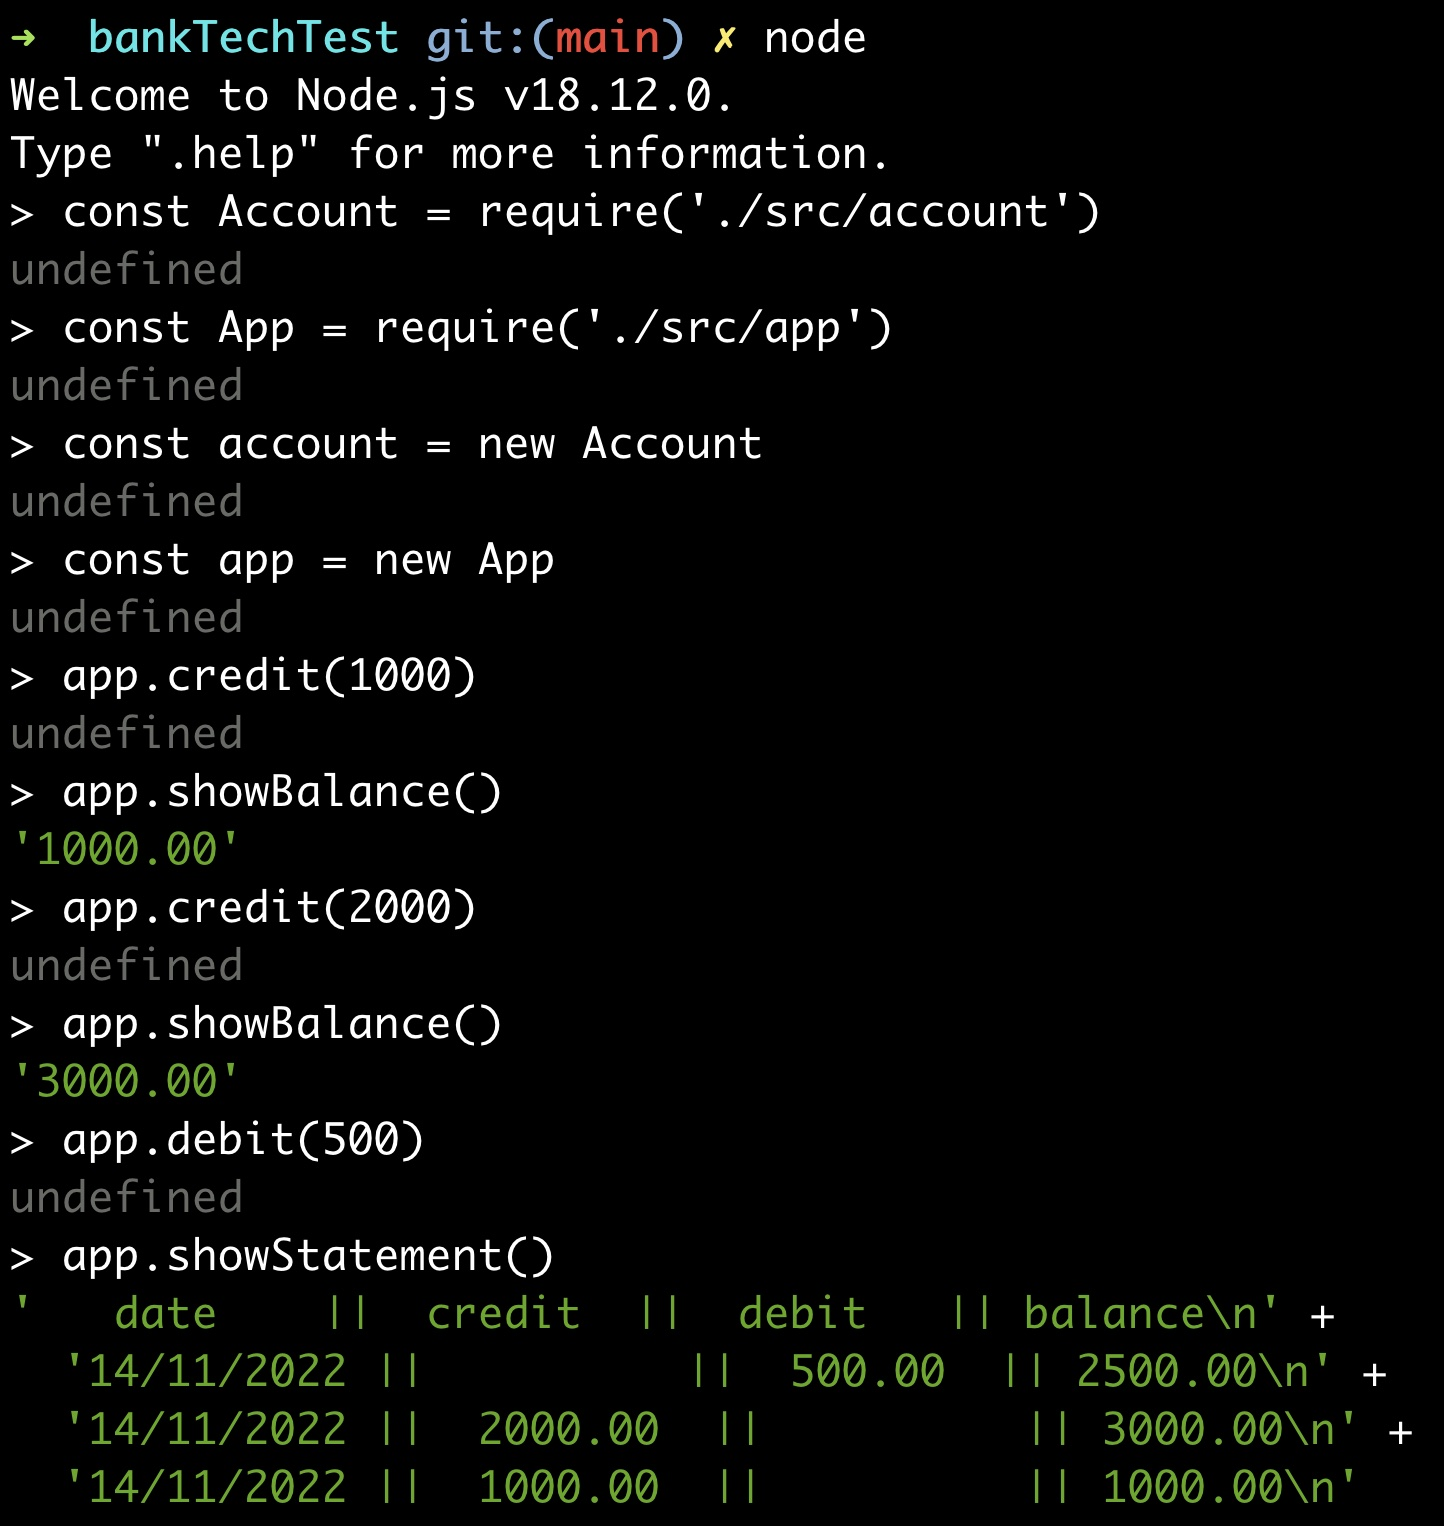
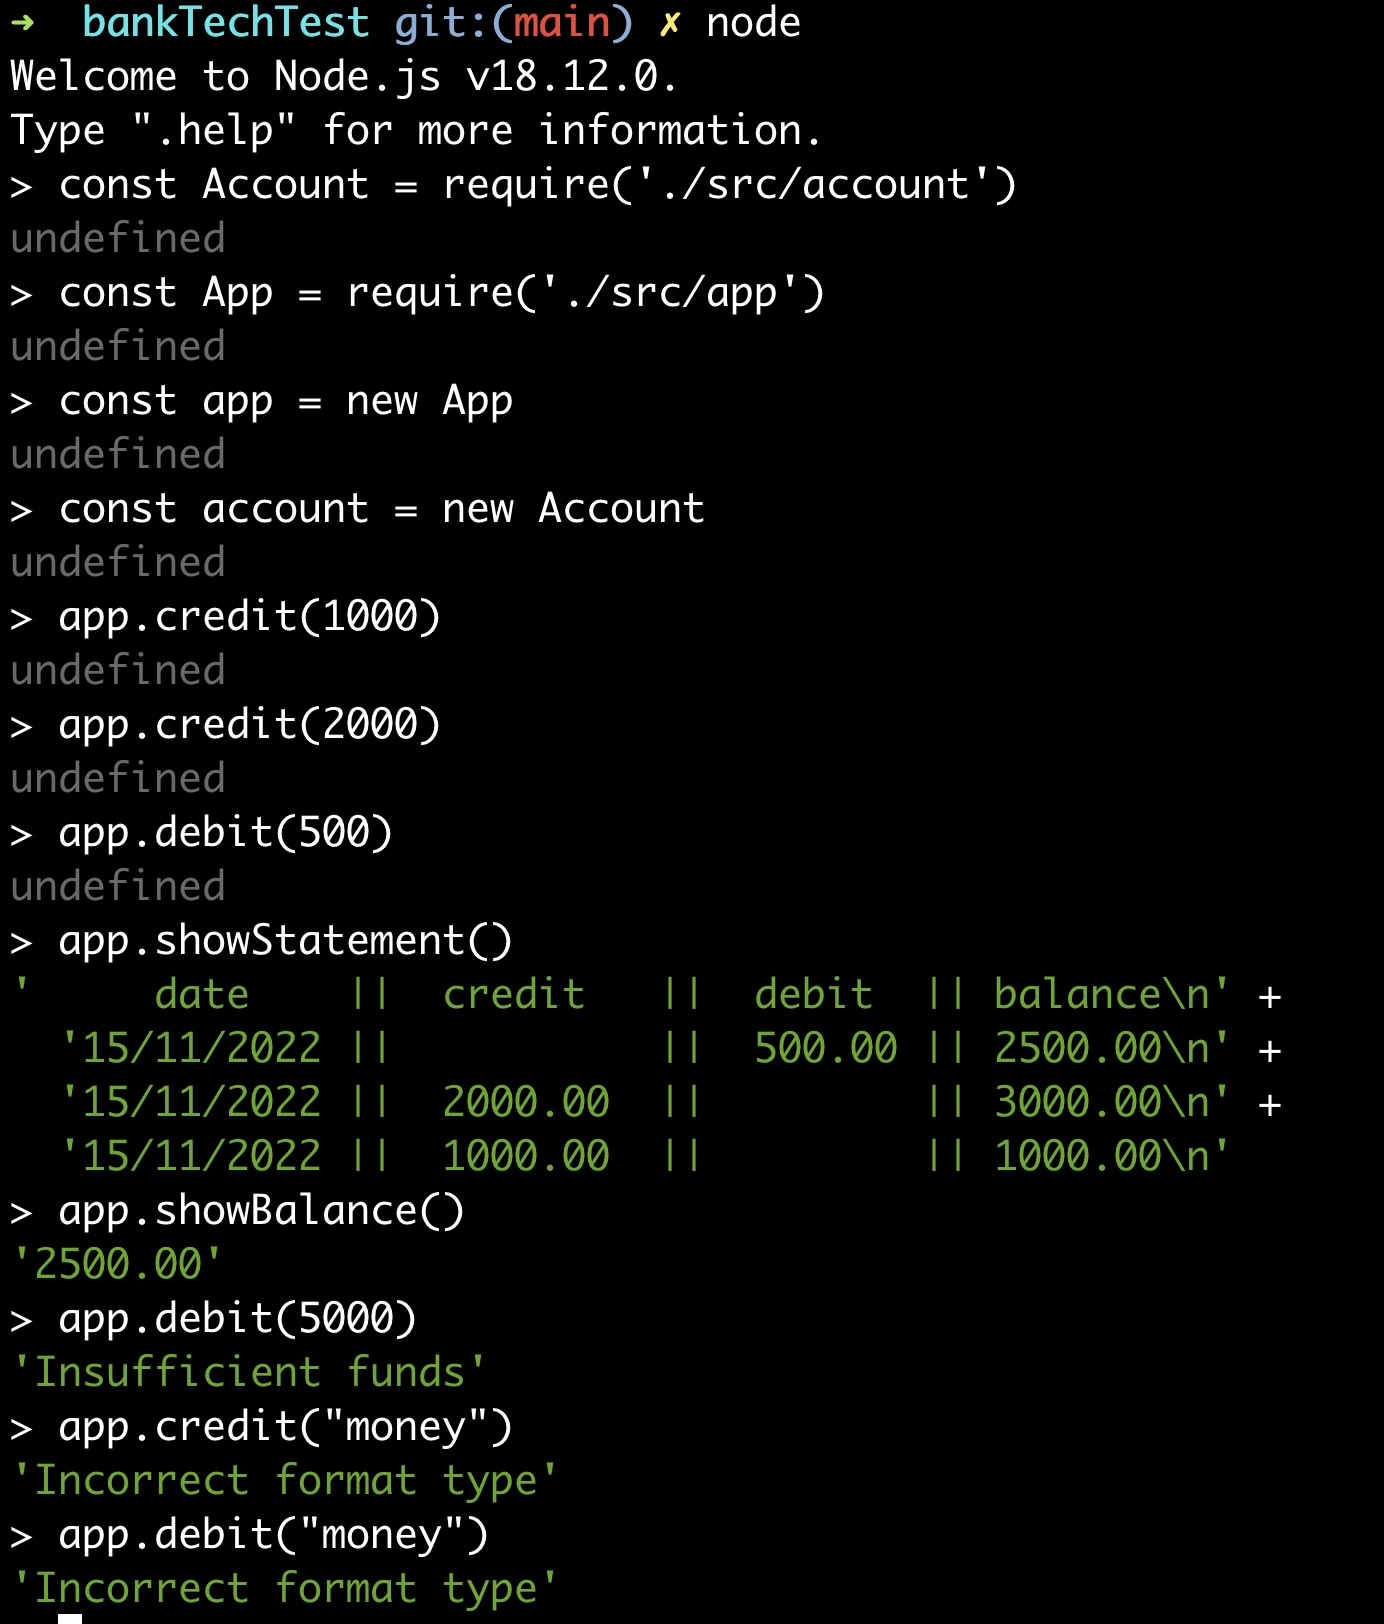
gif and pic added - example of REPL

diff --git a/spec/app.test.js b/spec/app.test.js
@@ -69,13 +69,19 @@ describe("Given new account instance", () => {
     expect(app.debit("money")).toEqual("Incorrect format type");
   });
 
+  it("displays error message if non-number given", () => {
+    const app = new App();
+    app.credit("Money");
+    expect(app.credit("Money")).toEqual("Incorrect format type");
+  });
+
   it("returns statement header", () => {
     const app = new App();
     app.credit(500);
     app.credit(400);
     app.debit(250);
     expect(app.showStatement()).toEqual(
-      `   date    ||  credit  ||  debit   || balance\n${new Date().toLocaleDateString()} ||          ||  250.00  || 650.00\n${new Date().toLocaleDateString()} ||  400.00  ||          || 900.00\n${new Date().toLocaleDateString()} ||  500.00  ||          || 500.00\n`
+      `     date    ||  credit  ||  debit   || balance\n${new Date().toLocaleDateString()} ||          ||  250.00  || 650.00\n${new Date().toLocaleDateString()} ||  400.00  ||          || 900.00\n${new Date().toLocaleDateString()} ||  500.00  ||          || 500.00\n`
     );
   });
 });

diff --git a/src/app.js b/src/app.js
@@ -3,10 +3,13 @@ const Account = require("./account");
 class App {
   constructor() {
     this.account = new Account();
-    this.statement = "   date    ||  credit  ||  debit   || balance\n";
+    this.statement = "     date    ||  credit   ||  debit  || balance\n";
   }
 
   credit(amount) {
+    if (isNaN(amount) === true) {
+      return "Incorrect format type";
+    }
     this.account.creditAccount(amount);
   }
 
@@ -37,11 +40,11 @@ class App {
     reverseStatement.map((transaction) => {
       this.statement += `${transaction.date} ||  ${
         transaction.credit == 0
-          ? "      "
+          ? "       "
           : Number(transaction.credit).toFixed(2)
       }  ||  ${
         transaction.debit == 0 ? "      " : Number(transaction.debit).toFixed(2)
-      }  || ${transaction.balance.toFixed(2)}\n`;
+      } || ${transaction.balance.toFixed(2)}\n`;
     });
   }
 }
